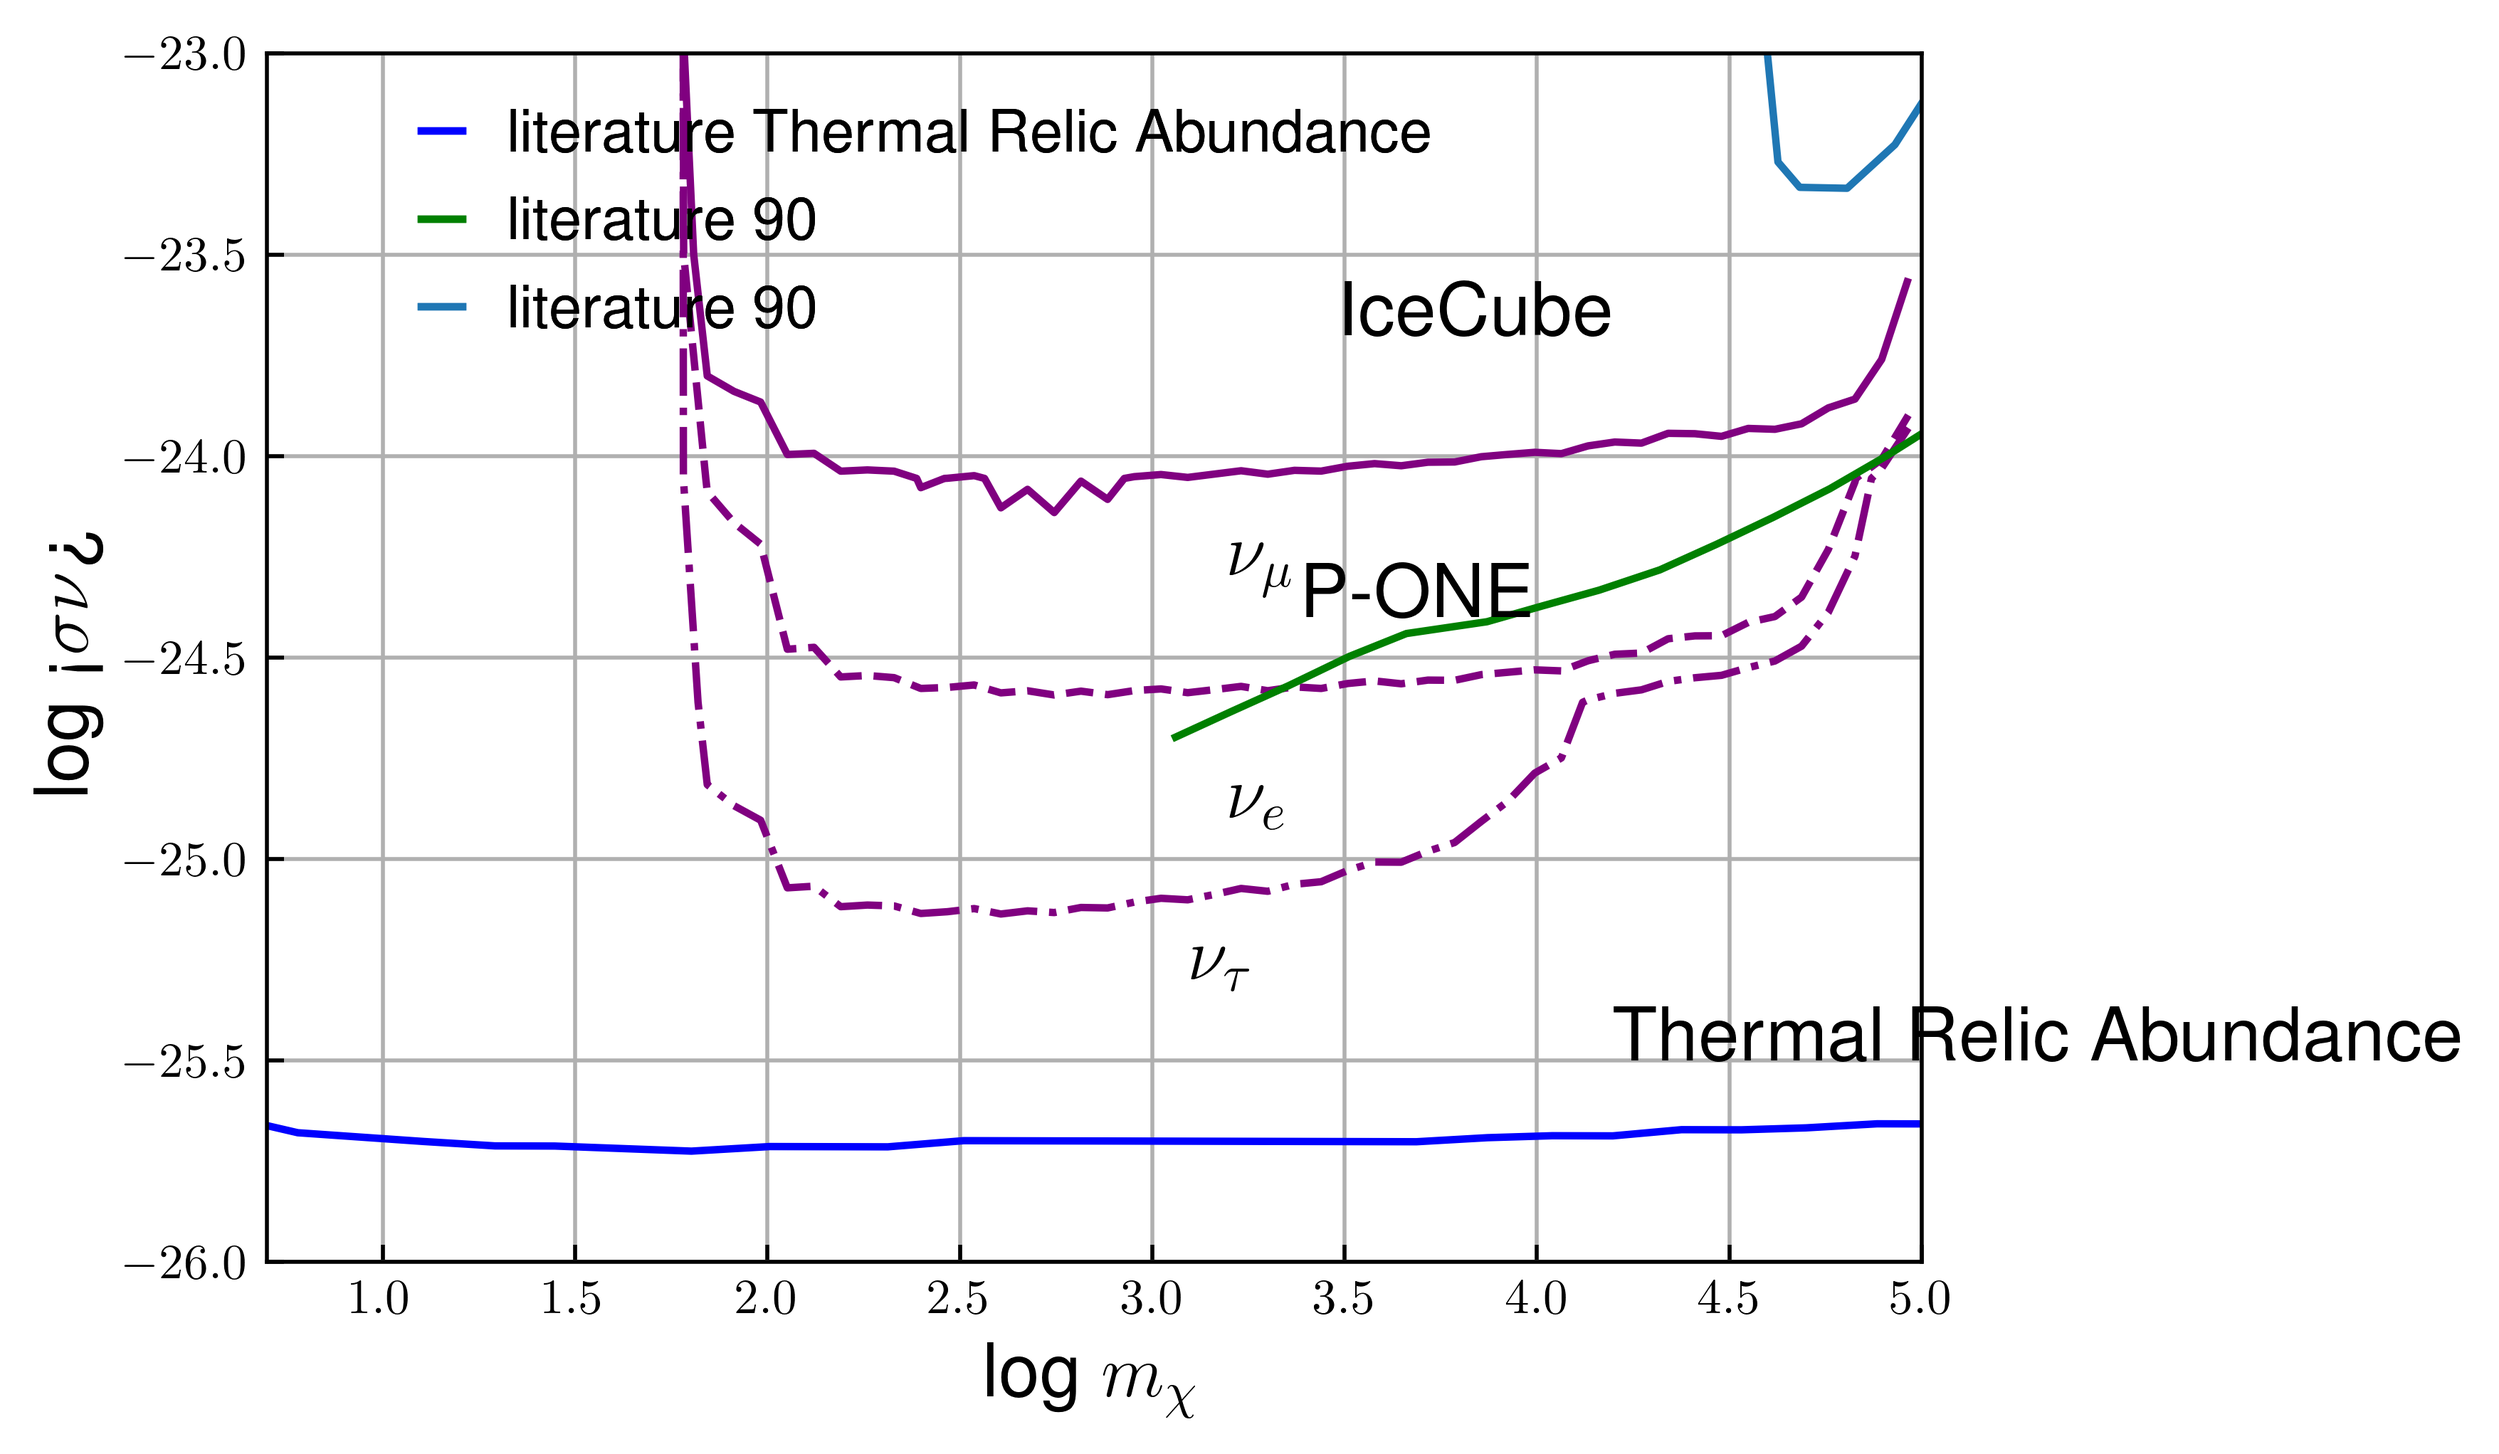
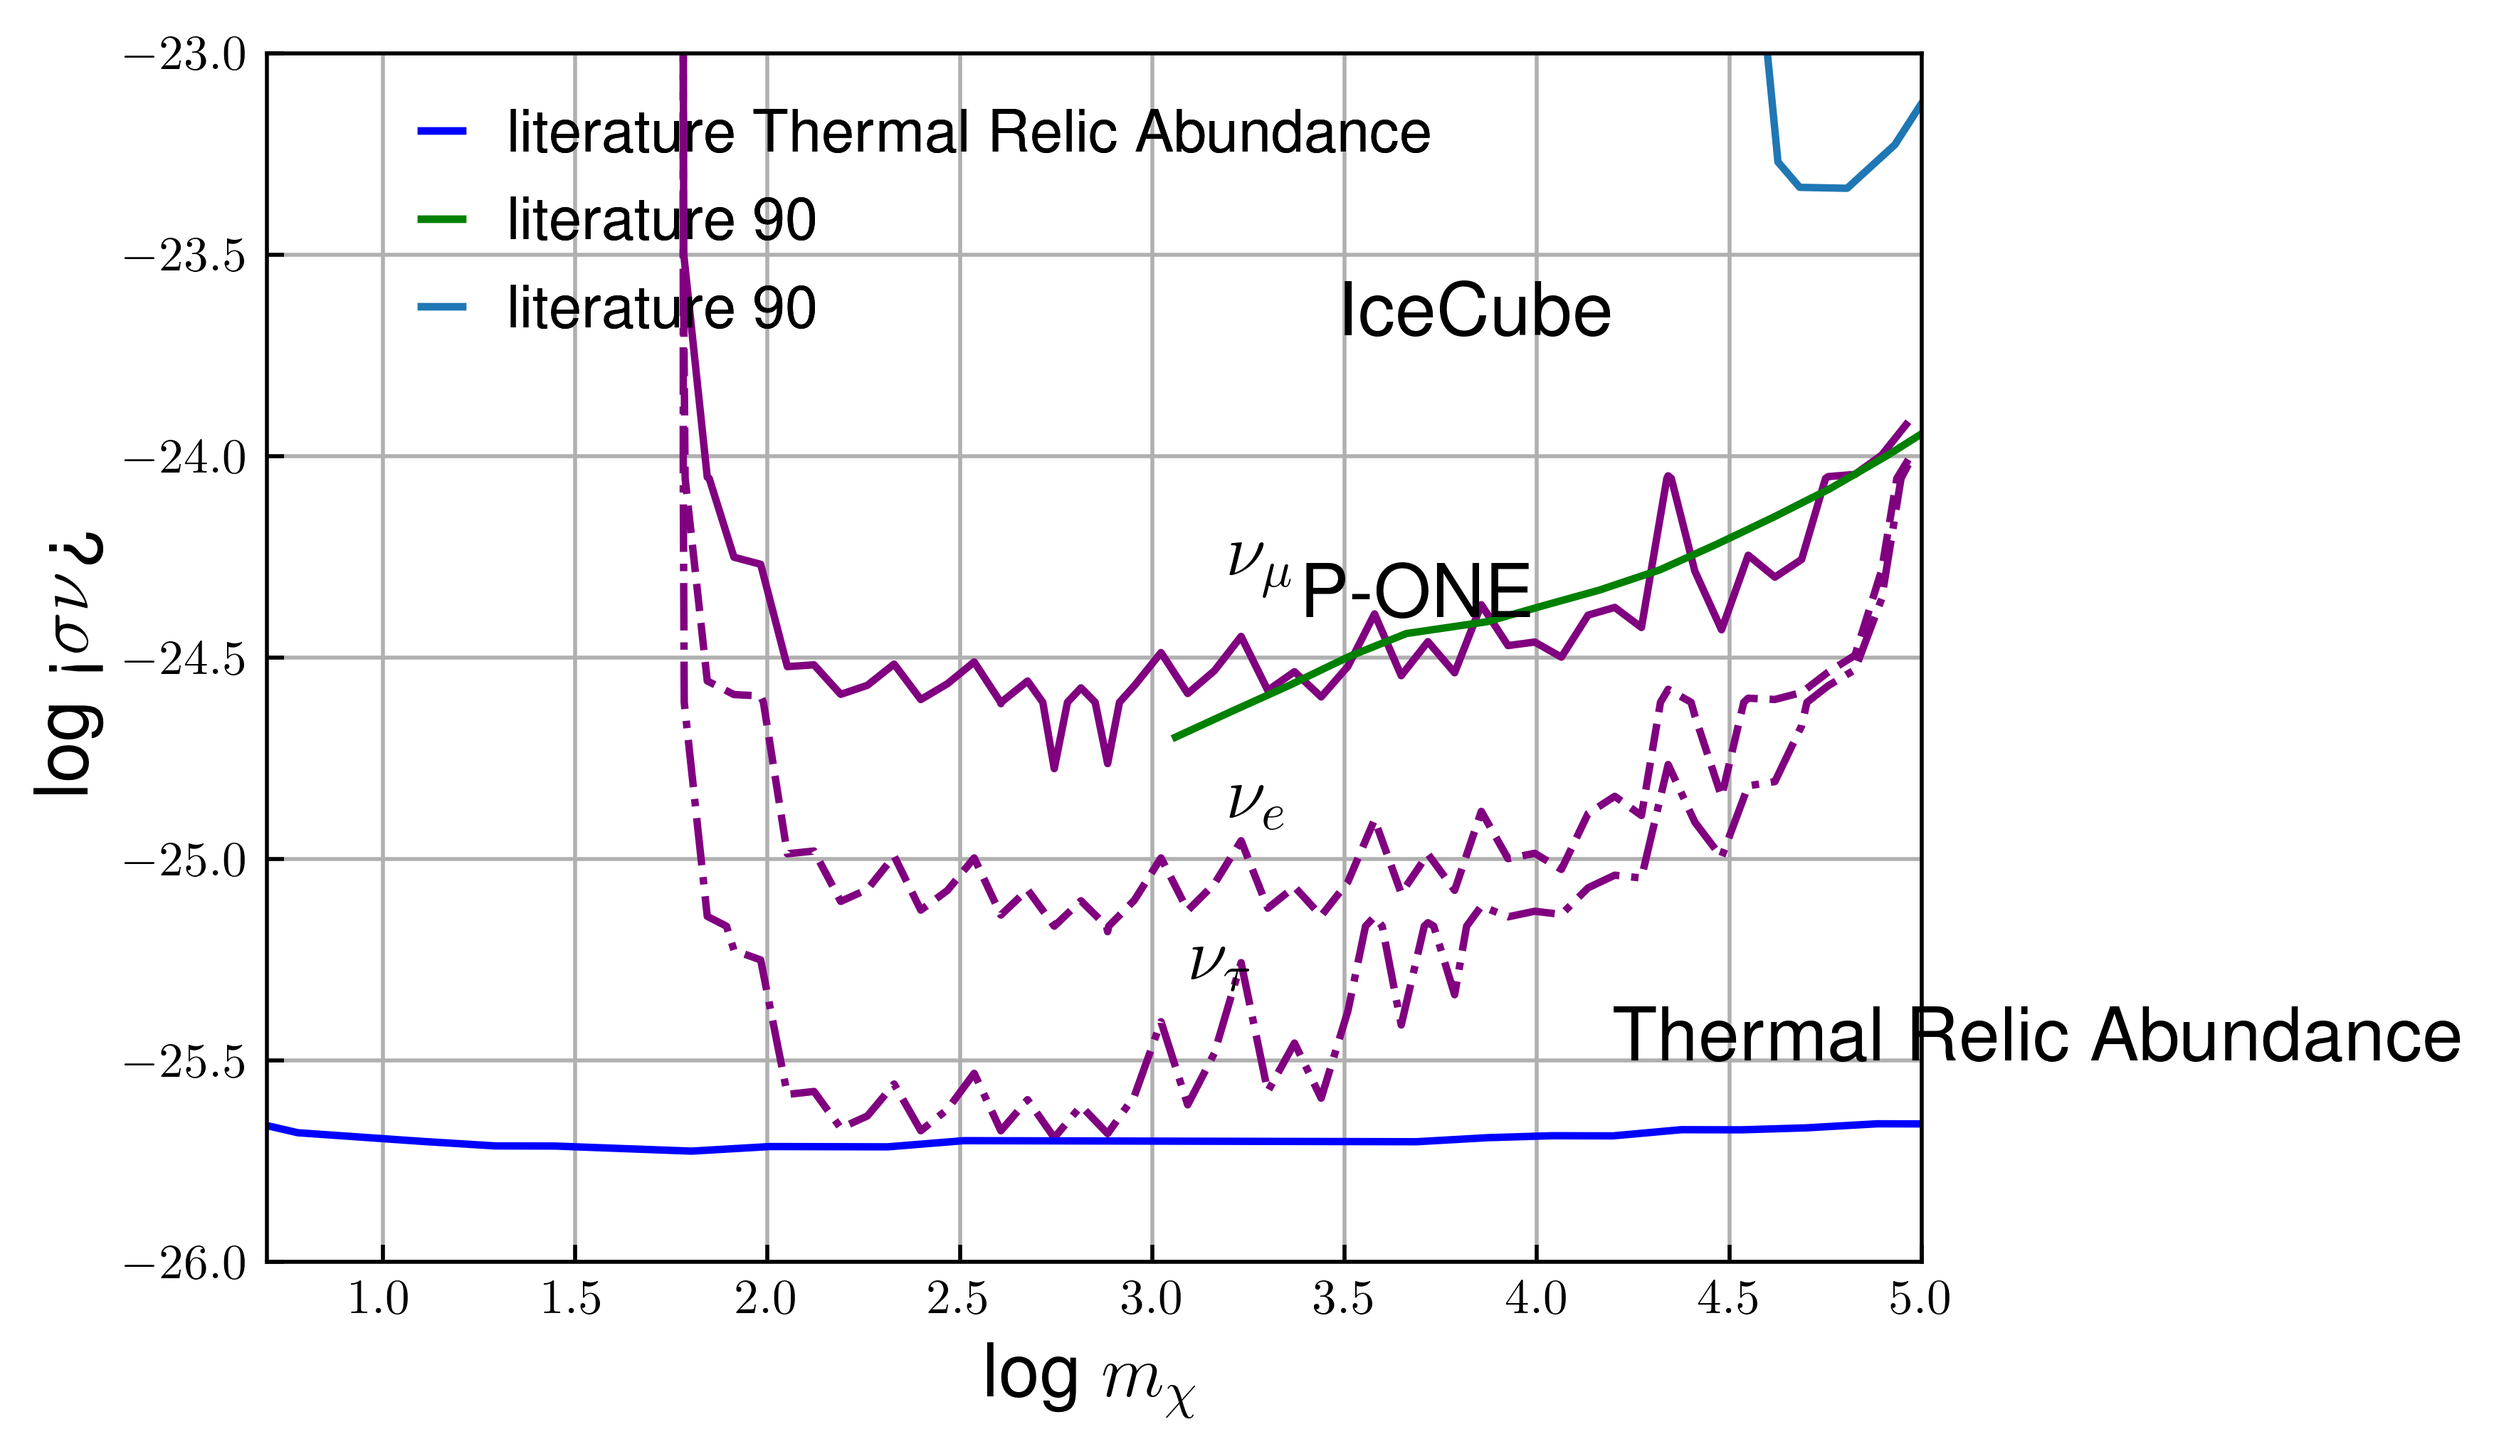
changes in galactic fluxes and extra galactic flux

diff --git a/pone_dm/dm2nu.py b/pone_dm/dm2nu.py
@@ -36,7 +36,7 @@ class DM2Nu(object):
         self.omega_L = self._const.omega_L
         self.omega_r = self._const.omega_r
         self._d_constructor()
-        self.nu_e = pd.read_csv(open('../data/Li_project/nu_e.dat', 'rb'),
+        self.nu_e = pd.read_csv(open('../data/Li_project/nu_mu.dat', 'rb'),
                                 delim_whitespace=True)
         if config['general']['density'] == 'Burlket':
             self._dphi_de_c = self._dphi_de_c_burkert
@@ -46,7 +46,12 @@ class DM2Nu(object):
         if config['general']["channel"] != 'All':
             # self._channel = "\[Tau]"
             self.m_keys = Counter(self.nu_e['mDM'].values).keys()
-            config['simulation parameters']['mass grid'] = np.array([i for i in self.m_keys])
+            config['simulation parameters']['mass grid'] = np.array([1000,
+                1200,   1300,   2000,   2500,   5000,
+                6000,   7000,   8000,   9000,   15000,
+                20000,  30000,  50000, 100000
+                #i for i in self.m_keys
+                ])
                 #[100, 240, 500, 700, 900, 1e3, 2.5e3, 5e3, 7e3, 1e4, 2e4, 3e4,
                 # 5e4, 1e5])
 
